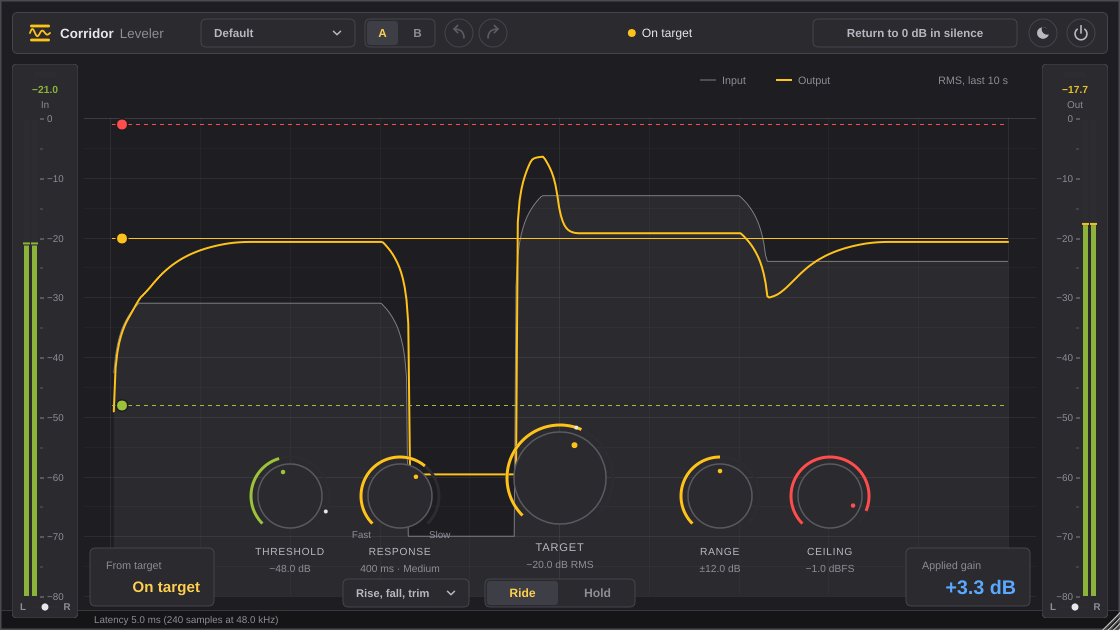
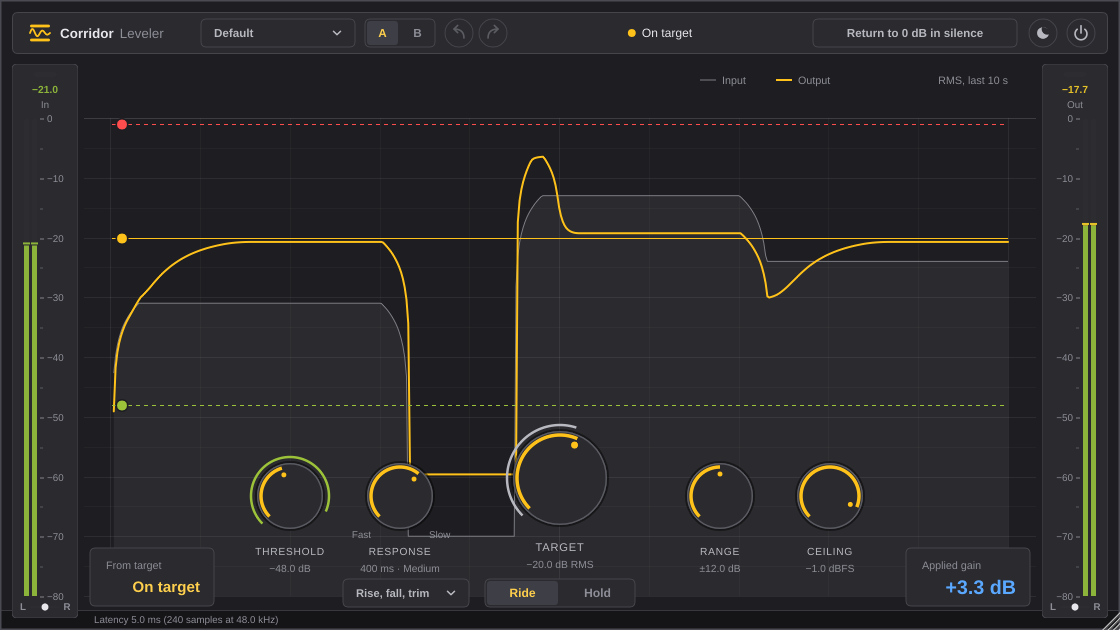
Draw the dials like the reference: value arc inside the rim, dot pointer
The gold value arc now runs just inside the disc's rim with no track behind
it, the pointer is a gold dot near the edge, and the disc has a dark outline
and a thin light ring. Threshold and Target show the live level as a thin
outer arc (green for the input, grey for the output).

Claude-Session: https://claude.ai/code/session_01CanfjaouHbrotfhirjsFAW

diff --git a/plugin/src/PluginEditor.cpp b/plugin/src/PluginEditor.cpp
@@ -202,40 +202,45 @@ public:
              : role == "resp" ? (c.dark ? c.resp : c.resp.darker(0.3f)) : role == "range" ? (c.dark ? c.range : c.range.darker(0.2f)) : c.ink;
     }
 
-    // A dial: a dark matte disc in a thin light ring, the value as an arc just outside it, a dot for a pointer.
+    // A dial in the analyzer style: a dark matte disc edged by a thin light ring and a dark outline. The
+    // value is a gold arc running just inside the rim (no track behind it), and a gold dot near the edge is
+    // the pointer. Threshold and Target add a thin outer arc showing the live level: green for the input on
+    // Threshold, grey for the output on Target.
     void drawRotarySlider(Graphics& g, int x, int y, int w, int h, float pos, float a0, float a1, Slider& s) override {
         const Pal& c = p();
         const float cx = float(x) + float(w) * 0.5f, cy = float(y) + float(h) * 0.5f;
-        const float ringR = float(jmin(w, h)) * 0.5f - 7.f, r = ringR - 7.f;
+        const float r = float(jmin(w, h)) * 0.5f - 13.f;  // the disc
         const float ang = a0 + pos * (a1 - a0);
         const String role = s.getProperties().getWithDefault("role", "");
-        const Colour col = roleColour(role);
-        Path track; track.addCentredArc(cx, cy, ringR, ringR, 0.f, a0, a1, true);
-        g.setColour(c.meterOff);
-        g.strokePath(track, PathStrokeType(3.f, PathStrokeType::curved, PathStrokeType::butt));
-        if (pos > 0.003f) {
-            Path val; val.addCentredArc(cx, cy, ringR, ringR, 0.f, a0, ang, true);
-            g.setColour(col); g.strokePath(val, PathStrokeType(3.f, PathStrokeType::curved, PathStrokeType::butt));
-        }
-        // live level on the ring: Target shows the output level, Threshold the input level
+        const bool hot = s.isMouseOverOrDragging();
+        auto arc = [&](float rad, float from, float to, float thick, Colour col) {
+            Path a; a.addCentredArc(cx, cy, rad, rad, 0.f, from, to, true);
+            g.setColour(col); g.strokePath(a, PathStrokeType(thick, PathStrokeType::curved, PathStrokeType::butt));
+        };
+        // live level: a thin arc outside the disc, from the start of the sweep to the level
         const var live = s.getProperties()["live"];
         if (!live.isVoid()) {
             const double lv = double(live);
-            if (lv >= s.getMinimum() && lv <= s.getMaximum()) {
-                const float la = a0 + float(s.valueToProportionOfLength(lv)) * (a1 - a0);
-                g.setColour(c.ink);
-                g.fillEllipse(cx + ringR * std::sin(la) - 2.f, cy - ringR * std::cos(la) - 2.f, 4.f, 4.f);
+            if (lv > s.getMinimum()) {
+                const float la = a0 + float(s.valueToProportionOfLength(jmin(lv, s.getMaximum()))) * (a1 - a0);
+                arc(r + 6.f, a0, la, 2.5f, role == "thr" ? c.thr : c.label);
             }
         }
-        const bool hot = s.isMouseOverOrDragging();
+        // the disc: a dark outline, the matte face and a thin light ring
+        g.setColour(c.dark ? Colours::black.withAlpha(0.45f) : Colours::black.withAlpha(0.14f));
+        g.fillEllipse(cx - r - 2.f, cy - r - 2.f, (r + 2.f) * 2.f, (r + 2.f) * 2.f);
         g.setColour(hot ? c.glassStrong : c.glass);
         g.fillEllipse(cx - r, cy - r, r * 2.f, r * 2.f);
         g.setColour(hot ? c.label : c.knobRim);
-        g.drawEllipse(cx - r, cy - r, r * 2.f, r * 2.f, 1.5f);
-        const float pr = r * 0.78f, d = jmax(4.5f, r * 0.13f);
-        g.setColour(col);
+        g.drawEllipse(cx - r + 0.75f, cy - r + 0.75f, (r - 0.75f) * 2.f, (r - 0.75f) * 2.f, 1.5f);
+        // the value, just inside the rim
+        const Colour accent = c.data;
+        if (pos > 0.003f) arc(r - 4.f, a0, ang, 3.5f, accent);
+        // the pointer: a dot near the edge
+        const float pr = r - 11.f, d = jmax(5.f, r * 0.15f);
+        g.setColour(accent);
         g.fillEllipse(cx + std::sin(ang) * pr - d * 0.5f, cy - std::cos(ang) * pr - d * 0.5f, d, d);
-        if (s.hasKeyboardFocus(false)) { g.setColour(c.ink); g.drawEllipse(cx - ringR - 6.f, cy - ringR - 6.f, (ringR + 6.f) * 2.f, (ringR + 6.f) * 2.f, 1.5f); }
+        if (s.hasKeyboardFocus(false)) { g.setColour(c.ink); g.drawEllipse(cx - r - 10.f, cy - r - 10.f, (r + 10.f) * 2.f, (r + 10.f) * 2.f, 1.5f); }
     }
 
     // The thin sliders in the Rise / Fall / Trim panel.

diff --git a/README.md b/README.md
@@ -47,7 +47,8 @@ The window is flat and quiet, in an analyzer style: the full-bleed level graph i
 grid, the input as a thin grey trace and the output as a gold curve. The Target, Threshold and Ceiling lines
 (gold, green and red) each have a round handle. The header, meters, readouts and dials sit straight on the graph
 as solid panels with a thin edge, with no gradients or glow. Dials are matte discs with the value as a gold arc
-around them; anything switched on turns gold. It is dark charcoal by default, with a light version on the
+just inside the rim and a gold dot for a pointer; Threshold and Target add a thin outer arc showing the live
+input and output level. Anything switched on turns gold. It is dark charcoal by default, with a light version on the
 sun / moon switch, and a plain edge keeps the window distinct on black, dark or white backgrounds. It can be
 resized freely (it keeps its shape). The meters show left and right with a balance dot, in green, amber and red
 zones, marked at the graph's heights. The bottom corners show how far the output is from the target and the
